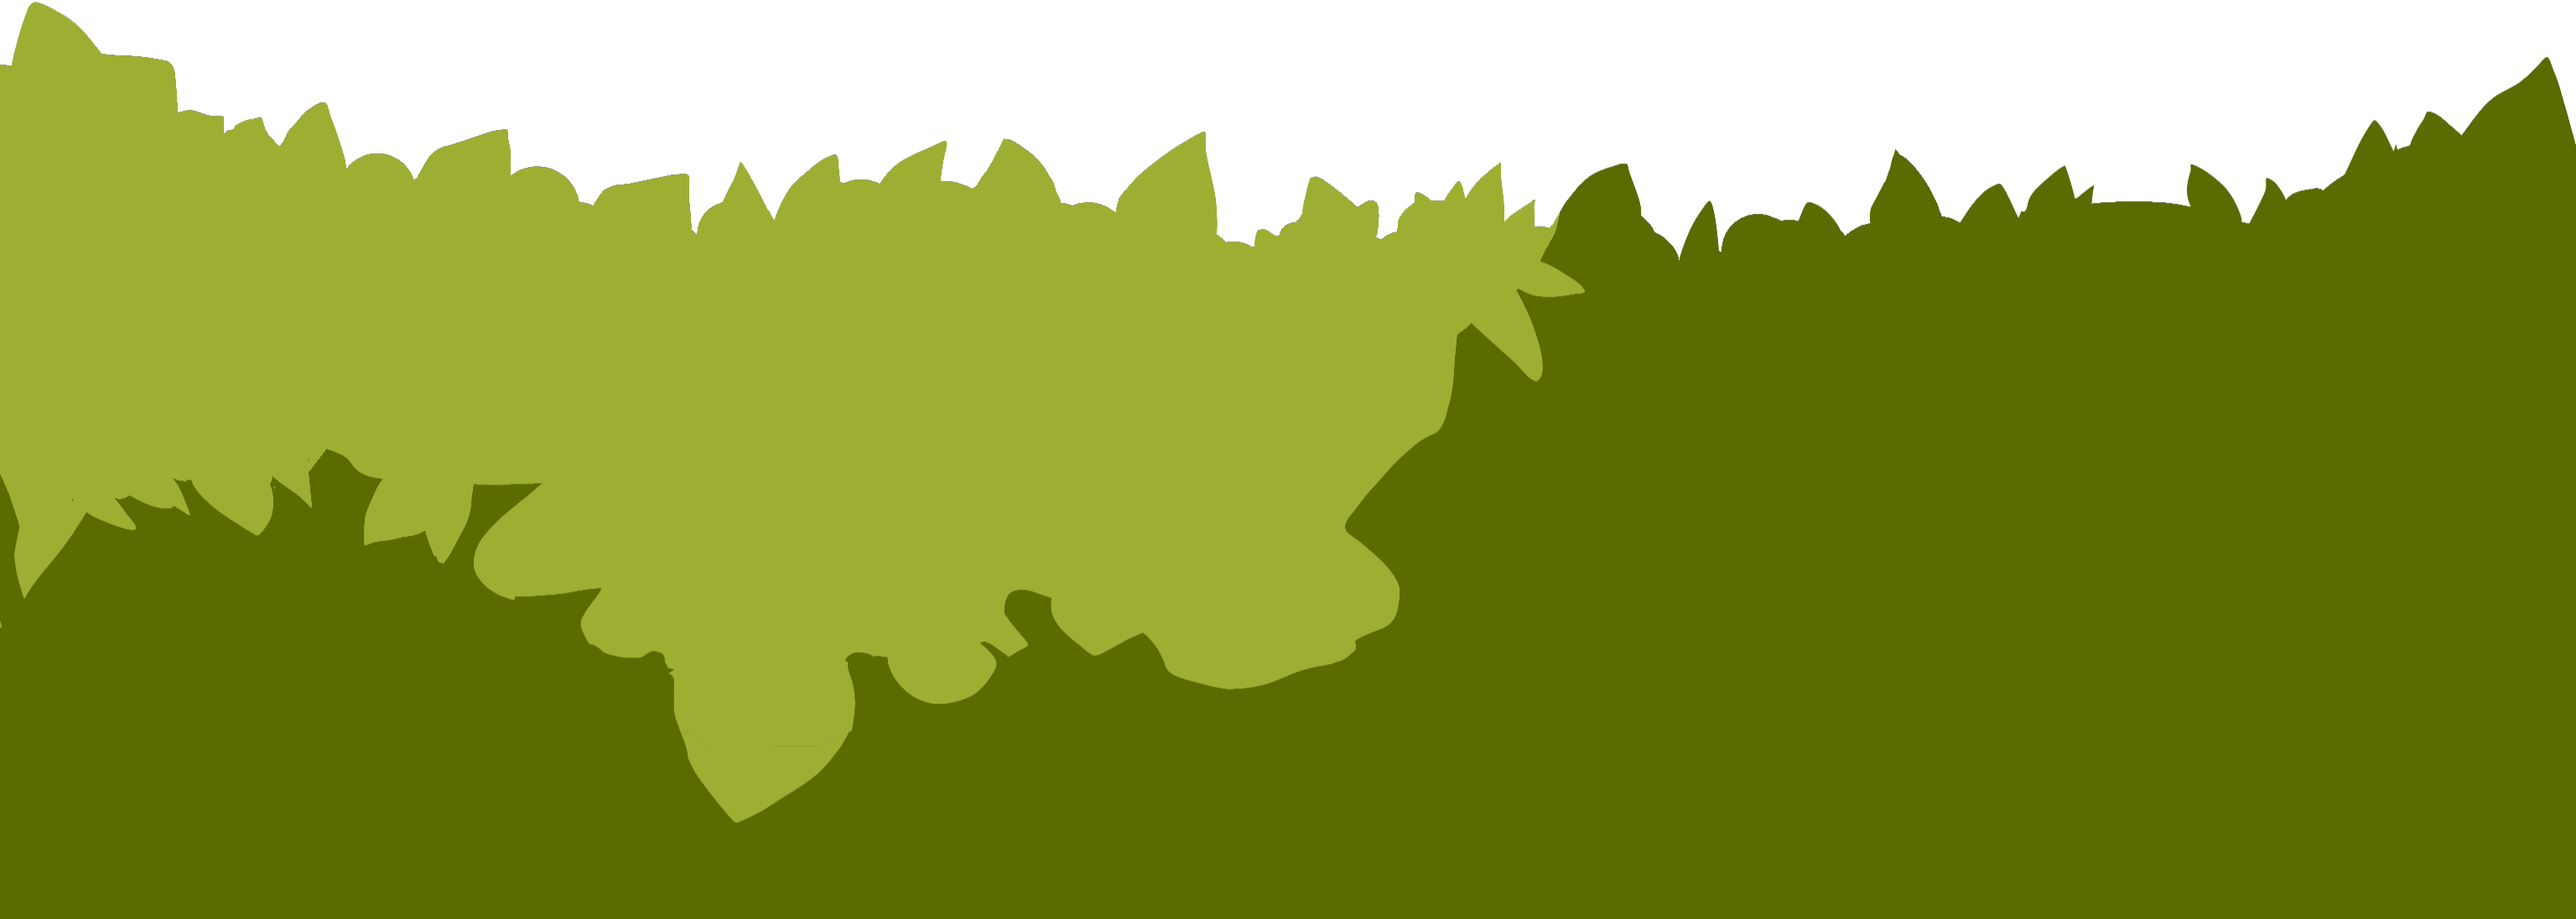
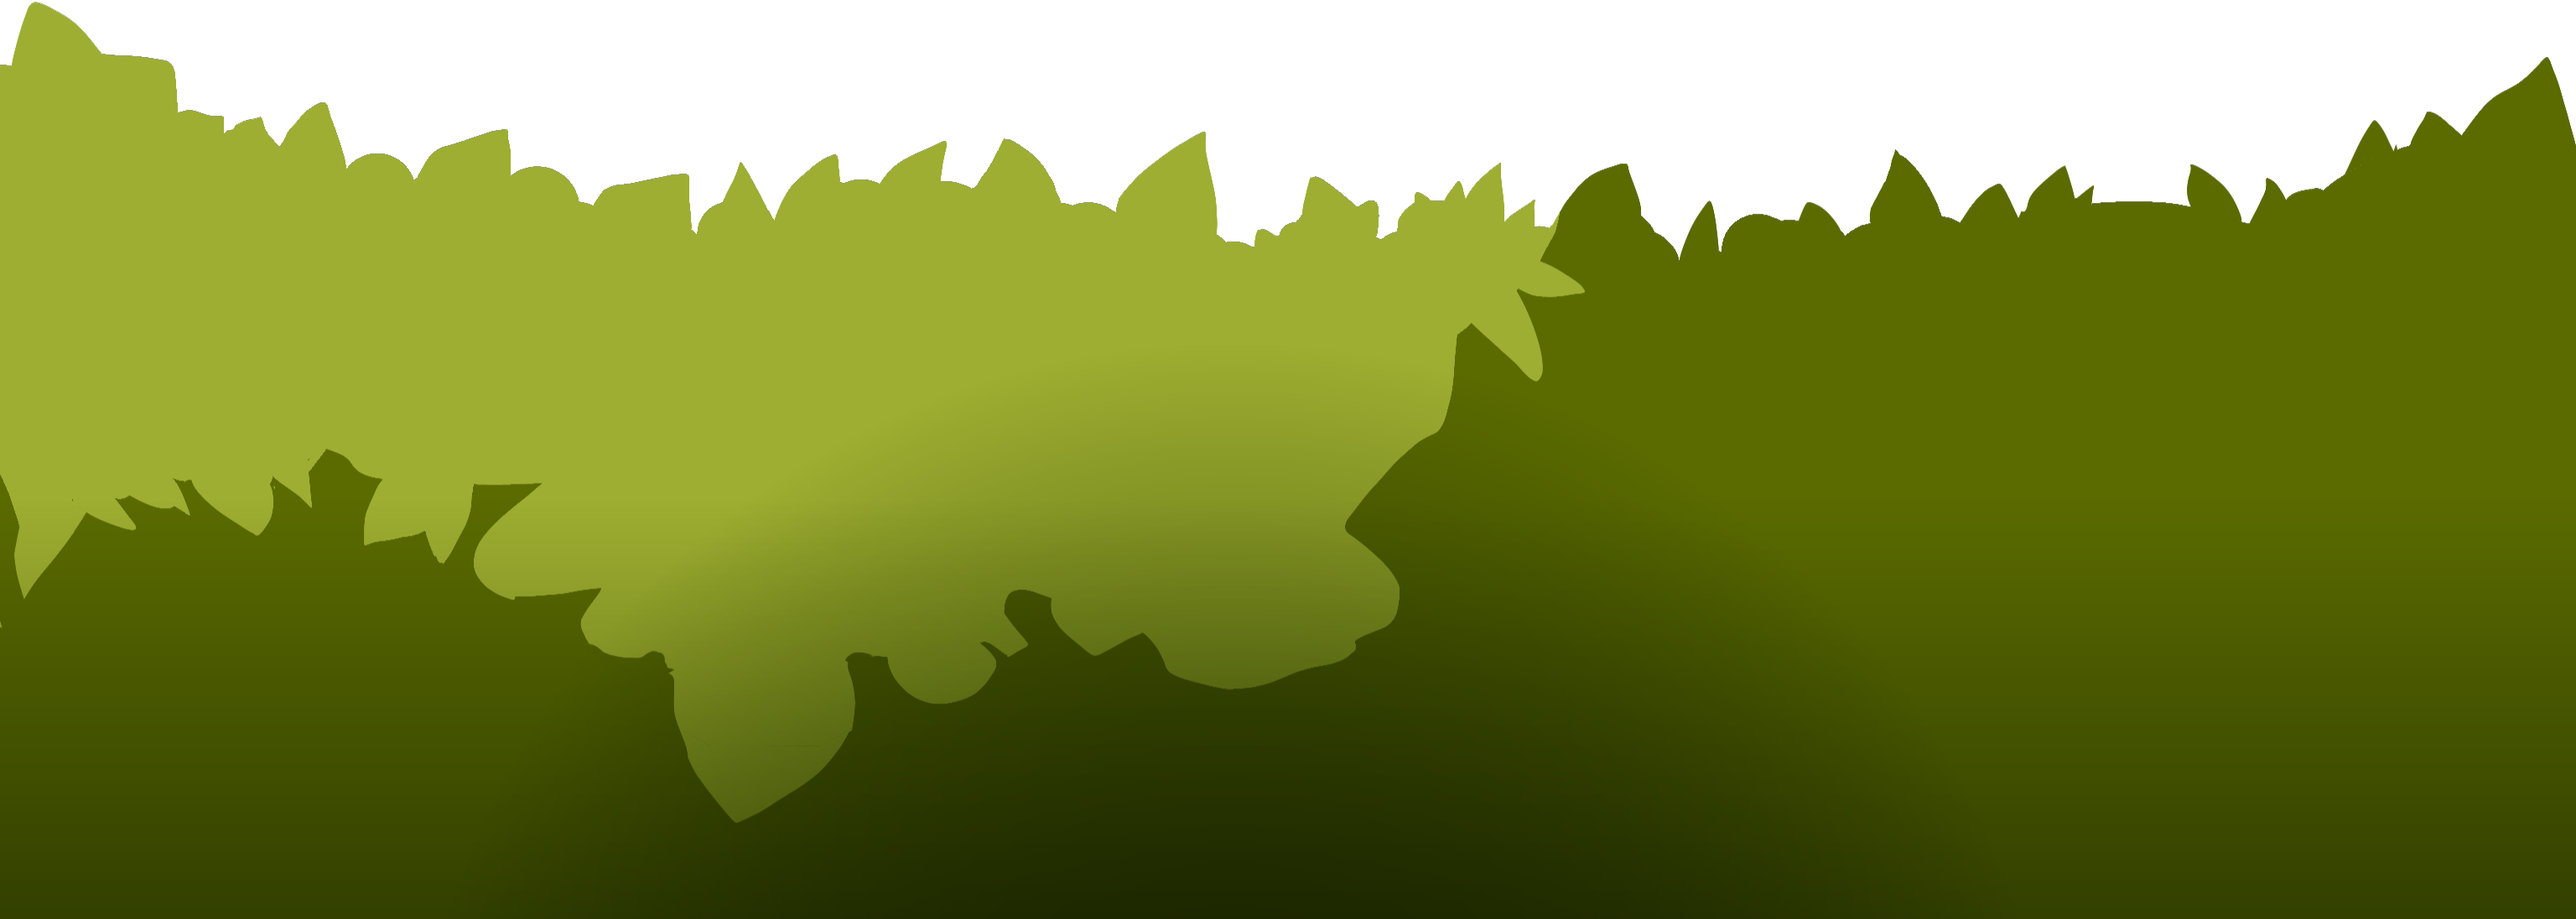
all assets

Changed region(s): [[0.0, 0.5274, 1.0, 1.0]]

diff --git a/site/src/styles.css b/site/src/styles.css
@@ -14,15 +14,18 @@ body {
 
 /* Sticky header */
 .sticky-header {
-  position: sticky;
   top: 0;
   z-index: 100;
   height: 84.76px;
   box-sizing: border-box;
-  background: #6b5a43;
+  background-image: url("/Guadalahacks_2026/assets/Center_bar.png");
+  background-size: auto 100%;
+  background-repeat: repeat-x;
+  background-position: bottom center;
   border-bottom: 2px solid #2a1f14;
   display: flex;
   flex-direction: column;
+  position: sticky;
 }
 
 .header-content {
@@ -31,19 +34,36 @@ body {
   display: flex;
   align-items: center;
   justify-content: space-between;
-  padding: 24px 16px;
+  padding: 0px 56px 9px;
 }
+
+.header-left {
+  display: flex;
+  align-items:last baseline;
+  justify-content: flex-end;
+}
+
 .logo {
-  width: 56px;
-  height: 56px;
-  background: #c9a24a;
+  width: 50px;
+  height: 60px;
+  background-image: url("/Guadalahacks_2026/assets/Logo.png");
+  background-size: auto 100%;
+  background-repeat: no-repeat;
+  background-position: center;
   display: flex;
   align-items: center;
   justify-content: center;
-  border: 3px solid #2a1f14;
-  border-radius: 50%;
-  color: #2a1f14;
-  font-weight: bold;
+}
+.title {
+  height: 55px;
+  width: 350px;
+  background-image: url("/Guadalahacks_2026/assets/Title.png");
+  background-size: 100% auto;
+  background-repeat: no-repeat;
+  background-position: center;
+  display: flex;
+  align-items: center;
+  justify-content: center;
 }
 .nav-buttons {
   display: flex;
@@ -74,7 +94,6 @@ body {
   width: 100%;
   height: 100vh;
   overflow: hidden;
-  border-bottom: 2px solid #000;
 }
 .page.tall {
   height: 200vh;
@@ -91,7 +110,6 @@ body {
   width: 100%;
   height: 100vh;
   overflow: hidden;
-  border-bottom: 2px solid #000;
 }
 .parallax-viewport .layer {
   will-change: transform;
@@ -149,7 +167,7 @@ body {
 .page-1 .tree-tops-back {
   left: 0;
   right: 0;
-  top: 39%;
+  top: 36%;
   height: 40%;
   background-image: url("/Guadalahacks_2026/assets/Page1/TreeTopsCrop.png");
   background-size: 100% auto;
@@ -173,8 +191,10 @@ body {
   bottom: 5%;
   width: 100%;
   height: 75%;
-  background: #c9a24a;
-  opacity: 0.2;
+  background-image: url("/Guadalahacks_2026/assets/Page1/Deity_Temple.png");
+  background-position: center top;
+  background-size: auto 100%;
+  background-repeat: no-repeat;
   z-index: 5;
 }
 .page-1 .trees-front {
@@ -183,18 +203,33 @@ body {
   top: 15%;
   height: 78%;
   background-image: url("/Guadalahacks_2026/assets/Page1/TreeTops.png");
+  background-repeat: no-repeat;
   background-size: 110% auto;
   flex-direction: column;
   background-position: center bottom;
   z-index: 4;
 }
-.page-1 .palm-leafs {
+.page-1 .palm-leafsL {
   left: 0;
   top: 0;
-  width: 35%;
-  height: 55%;
-  background: #2a6b28;
-  border-radius: 0 0 60% 0;
+  height: 70%;
+  width: 50%;
+  background-image: url("/Guadalahacks_2026/assets/Page1/Front Leaves L.png");
+  background-repeat: no-repeat;
+  background-size: auto 120%;
+  background-position: top left;
+  z-index: 8;
+}
+
+.page-1 .palm-leafsR {
+  right: 0;
+  top: 0;
+  height: 70%;
+  width: 50%;
+  background-image: url("/Guadalahacks_2026/assets/Page1/Front Leaves R.png");
+  background-repeat: no-repeat;
+  background-size: auto 120%;
+  background-position: top right;
   z-index: 8;
 }
 .page-1 .bushes {
@@ -202,8 +237,9 @@ body {
   right: 0;
   bottom: 0;
   height: 50%;
-  background: #163d14;
-  opacity: 0.2;
+  background-image: url("/Guadalahacks_2026/assets/Page1/FrontBush.png");
+  background-size: auto 100%;
+  background-repeat: no-repeat;
   z-index: 9;
 }
 
@@ -267,7 +303,7 @@ body {
   position: absolute;
   left: 20%;
   top: 40.19%;
-  width: 12%;
+  width: 14%;
   height: 22.97%;
   overflow: hidden;
   z-index: 4;
@@ -275,7 +311,10 @@ body {
 .page-3 .deity-inner {
   position: absolute;
   inset: 0;
-  background: #c9a24a;
+  background-image: url("/Guadalahacks_2026/assets/Page3/Deity.png");
+  background-size: auto 100%;
+  background-repeat: no-repeat;
+  background-position: center bottom;
   display: flex;
   align-items: center;
   justify-content: center;
@@ -285,11 +324,20 @@ body {
   color: #fff;
   will-change: transform;
 }
+.page-3 .water{
+  position: absolute;
+  background-image: url("/Guadalahacks_2026/assets/Page3/Agua cenote.png");
+  background-size: 100%;
+  background-repeat: no-repeat;
+  width: 100%;
+  overflow: hidden;
+  z-index: 5;
+}
 .page-3 .deity-reflection-clip {
   position: absolute;
   left: 20%;
-  top: 64.03%;
-  width: 12%;
+  top: 62%;
+  width: 14%;
   height: 11.85%;
   overflow: hidden;
   z-index: 3;
@@ -299,7 +347,10 @@ body {
 .page-3 .deity-reflection-inner {
   position: absolute;
   inset: 0;
-  background: #c9a24a;
+  background-image: url("/Guadalahacks_2026/assets/Page3/Deity_reflection.png");
+  background-size: auto 100%;
+  background-position: center bottom;
+  background-repeat: no-repeat;
   display: flex;
   align-items: center;
   justify-content: center;
@@ -323,15 +374,13 @@ body {
   right: 0;
   bottom: 0;
   height: 39%;
-  background: repeating-radial-gradient(
-    circle at 10% 50%,
-    #6a5a4a 0 8px,
-    #4a3d30 8px 16px
-  );
+  background-image: url("/Guadalahacks_2026/assets/Page3/Rocky_shore.png");
+  background-size: auto 100%;
+  background-repeat: repeat-x;
   z-index: 6;
 }
 
 /* -------- Page 4 -------- */
 .page-4 {
-  background: #4a3d30;
+  background: #3b343f
 }

diff --git a/site/src/App.jsx b/site/src/App.jsx
@@ -1,9 +1,8 @@
 import React, { useEffect, useRef, useState } from "react";
 
-function Layer({ className, style, children }) {
+function Layer({ className, style }) {
   return (
     <div className={`layer ${className}`} style={style}>
-      {children ?? className}
     </div>
   );
 }
@@ -13,11 +12,12 @@ const LAYERS = [
   { cls: "sky", label: "Sky", travel: 0 },
   { cls: "misty-mountains", label: "Misty Mountain range", travel: 120 },
   { cls: "tree-tops-back", label: "Tree tops (Back)", travel: 220 },
-  { cls: "temple", label: "Temple", travel: 460 },
-  { cls: "deity", label: "Deity", travel: 500 },
+  { cls: "temple", label: "Temple", travel: 660 },
+  { cls: "deity", label: "Deity", travel: 900 },
   { cls: "trees-front", label: "Trees (Front)", travel: 550 },
-  { cls: "palm-leafs", label: "Big Palm Leafs", travel: 820 },
-  { cls: "bushes", label: "Bushes (Foreground)", travel: 1000 },
+  { cls: "palm-leafsL", label: "Big Palm Leafs L", travel: 920 },
+  { cls: "palm-leafsR", label: "Big Palm Leafs R", travel: 920 },
+  { cls: "bushes", label: "Bushes (Foreground)", travel: 1020 },
 ];
 
 const PARALLAX_RANGE = 1000; // px of scroll consumed by the landing animation
@@ -100,7 +100,10 @@ export default function App() {
       {/* Sticky header */}
       <header className="sticky-header">
         <div className="header-content">
-          <div className="logo">LOGO</div>
+          <div className="header-left">
+            <div className="logo"></div>
+            <div className="title"></div>
+          </div>
           <nav className="nav-buttons">
             <button className="btn" onClick={goPage1Bottom}>
               Button 1
@@ -134,33 +137,25 @@ export default function App() {
               {label}
             </Layer>
           ))}
-          <div className="page-label">Page 1 — Jungle Temple</div>
         </div>
       </div>
 
       {/* Page 2 - Catacombs */}
       <section className="page page-2" ref={page2Ref}>
         <Layer className="cavern-wall">
-          Cavern wall (background, shaded, trails into solid color)
-          <div className="torch">Torch</div>
-          <div className="torch">Torch</div>
-          <div className="torch">Torch</div>
         </Layer>
         <Layer className="mural">Mural (gilded edge)</Layer>
-        <div className="page-label">Page 2 — Catacombs</div>
       </section>
 
       {/* Page 3 - Cenote */}
       <section className="page page-3" ref={page3Ref}>
         <Layer className="cenote-bg">
-          Cenote (massive background, fades in)
         </Layer>
         <div className="deity-clip">
           <div
             className="deity-inner"
             style={{ transform: `translateY(${(1 - deityProgress) * 75}%)` }}
           >
-            Deity
           </div>
         </div>
         <div className="deity-reflection-clip">
@@ -168,7 +163,6 @@ export default function App() {
             className="deity-reflection-inner"
             style={{ transform: `translateY(${(1 - deityProgress) * 75}%)` }}
           >
-            Deity reflection (low opacity)
           </div>
         </div>
         <Layer
@@ -177,14 +171,11 @@ export default function App() {
             transform: `translateY(${Math.pow(1 - shoreProgress, 2) * 400}px)`,
           }}
         >
-          Rocky shore (pebbles → solid color)
         </Layer>
-        <div className="page-label">Page 3 — Cenote</div>
       </section>
 
       {/* Page 4 - solid color landing after rocky shore transition */}
       <section className="page page-4" ref={page4Ref}>
-        <div className="page-label">Page 4</div>
       </section>
     </div>
   );
